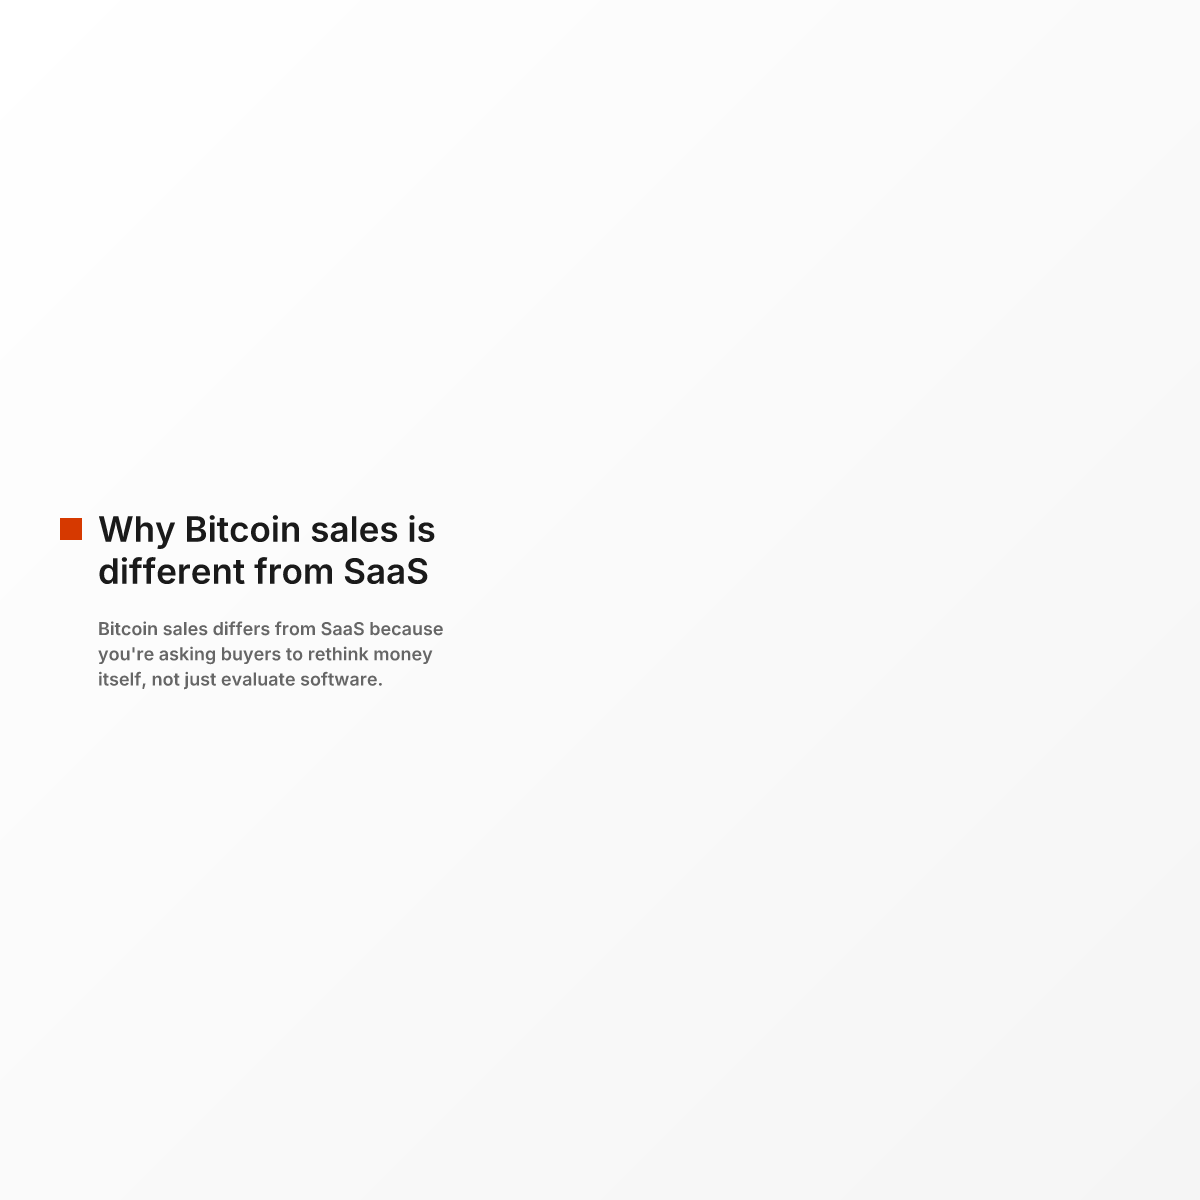
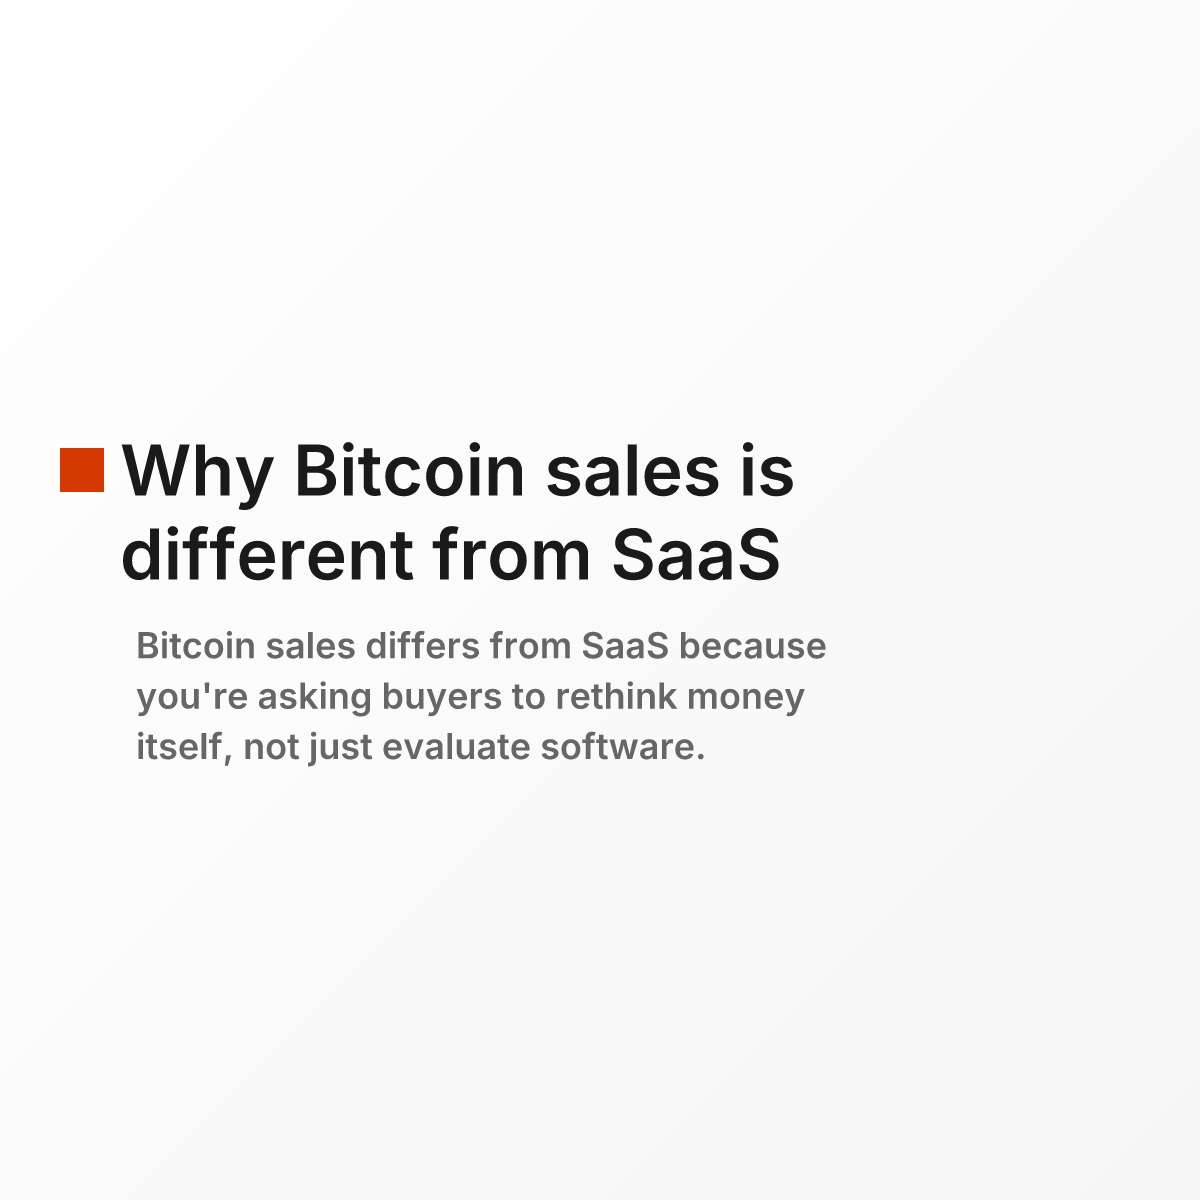
fix: correct OG image font sizes (2x scale)
Fixed critical scaling error where mockup dimensions (50% scale) were
used instead of actual image dimensions. Updated all typography and
spacing values to proper 2x scale:

Landscape (1200×630):
- Orange square: 20px → 40px
- Title: 30px → 60px
- Description: 17px → 34px
- Left padding: 32px → 64px

Square (1200×1200):
- Orange square: 22px → 44px
- Title: 35px → 70px
- Description: 18px → 36px
- Left padding: 38px → 76px

Regenerated all 10 OG images (5 essays × 2 formats).

🤖 Generated with [Claude Code](https://claude.com/claude-code)

Changed region(s): [[0.0308, 0.37, 0.7092, 0.6475]]

diff --git a/scripts/generate-og-images.js b/scripts/generate-og-images.js
@@ -102,28 +102,28 @@ async function main() {
             ">
               <div style="
                 display: flex;
-                width: 20px;
-                height: 20px;
+                width: 40px;
+                height: 40px;
                 background: ${COLORS.accent};
-                margin-top: 8px;
+                margin-top: 16px;
                 flex-shrink: 0;
               "></div>
               <h1 style="
-                font-size: 30px;
+                font-size: 60px;
                 font-weight: 600;
                 color: ${COLORS.textPrimary};
                 line-height: 1.2;
                 margin: 0;
-                max-width: 500px;
+                max-width: 1000px;
               ">${title}</h1>
             </div>
             <p style="
-              font-size: 17px;
+              font-size: 34px;
               color: ${COLORS.textSecondary};
               line-height: 1.4;
               margin: 0;
-              max-width: 500px;
-              padding-left: 32px;
+              max-width: 1000px;
+              padding-left: 64px;
             ">${description}</p>
           </div>
         </div>
@@ -158,28 +158,28 @@ async function main() {
             ">
               <div style="
                 display: flex;
-                width: 22px;
-                height: 22px;
+                width: 44px;
+                height: 44px;
                 background: ${COLORS.accent};
-                margin-top: 10px;
+                margin-top: 20px;
                 flex-shrink: 0;
               "></div>
               <h1 style="
-                font-size: 35px;
+                font-size: 70px;
                 font-weight: 600;
                 color: ${COLORS.textPrimary};
                 line-height: 1.2;
                 margin: 0;
-                max-width: 400px;
+                max-width: 800px;
               ">${title}</h1>
             </div>
             <p style="
-              font-size: 18px;
+              font-size: 36px;
               color: ${COLORS.textSecondary};
               line-height: 1.4;
               margin: 0;
-              max-width: 400px;
-              padding-left: 38px;
+              max-width: 800px;
+              padding-left: 76px;
             ">${description}</p>
           </div>
         </div>
